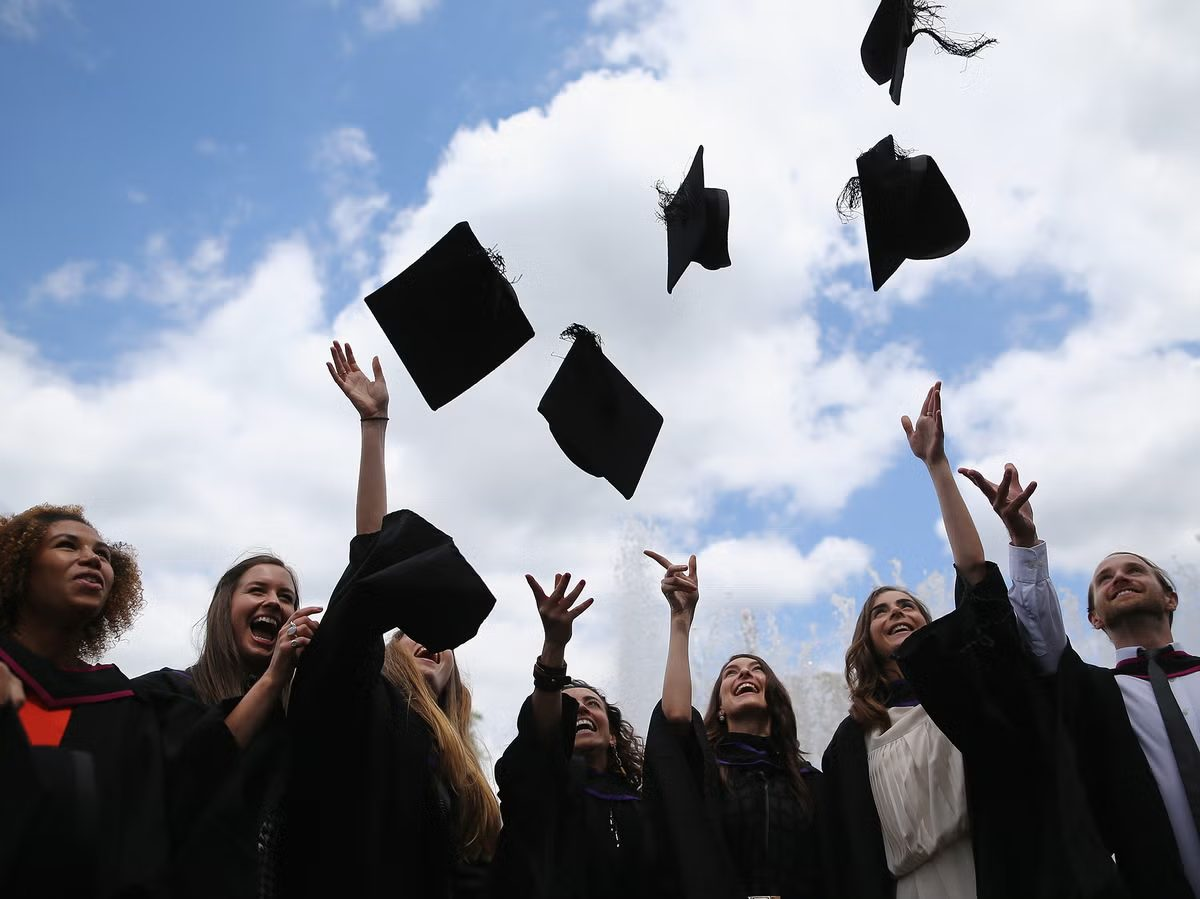
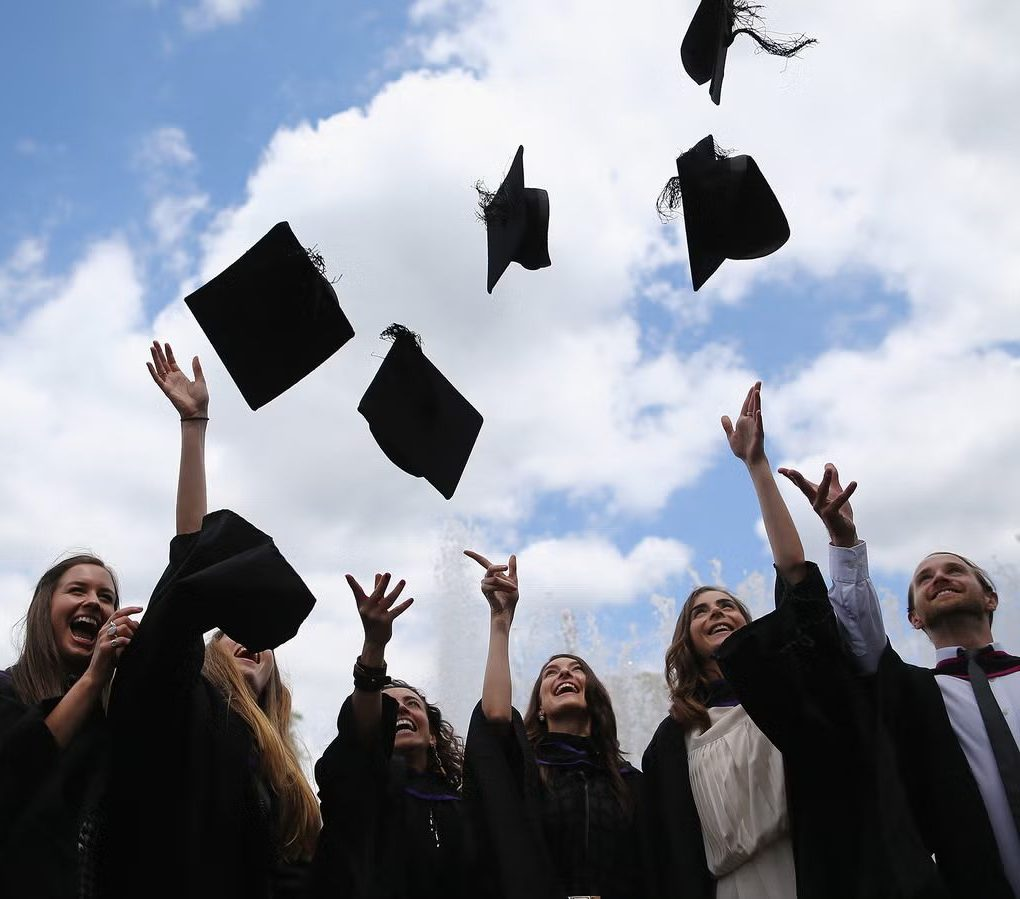
Recrop the hero photo to drop the left-hand graduate
Removed 180px from the left of the source, which clears her without touching
the next graduate. background-position could not do this: on a wide hero the
cover-scaled image overflows vertically, not horizontally, so a horizontal
offset has no effect and the file itself had to change.

The narrower image zooms further under cover, which pushed the faces below
the visible band, so the vertical framing moves from 35% to 62% to bring the
graduates and the flying caps back into view.

Contrast re-measured at the new framing: 5.0:1 at the worst pixel, still
clearing AAA. Both formats re-encoded, avif down to 44KB.

Claude-Session: https://claude.ai/code/session_01Tm1KaUazJRVdX9xZE6qkDL

diff --git a/style.css b/style.css
@@ -307,7 +307,7 @@ section {
     background-image: image-set(url('images/hero/graduation.avif') type('image/avif'),
                                 url('images/hero/graduation.jpg') type('image/jpeg'));
     background-size: cover;
-    background-position: center 35%;
+    background-position: center 62%;
     color: var(--white);
     padding: calc(var(--spacing-2xl) + 1.5rem) 0;
 }
